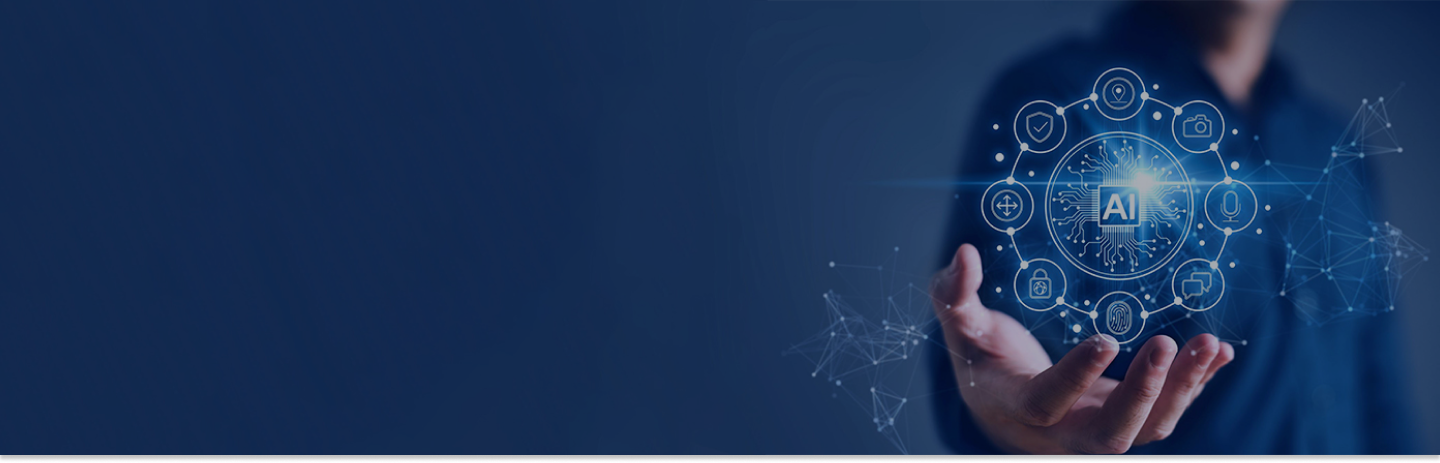
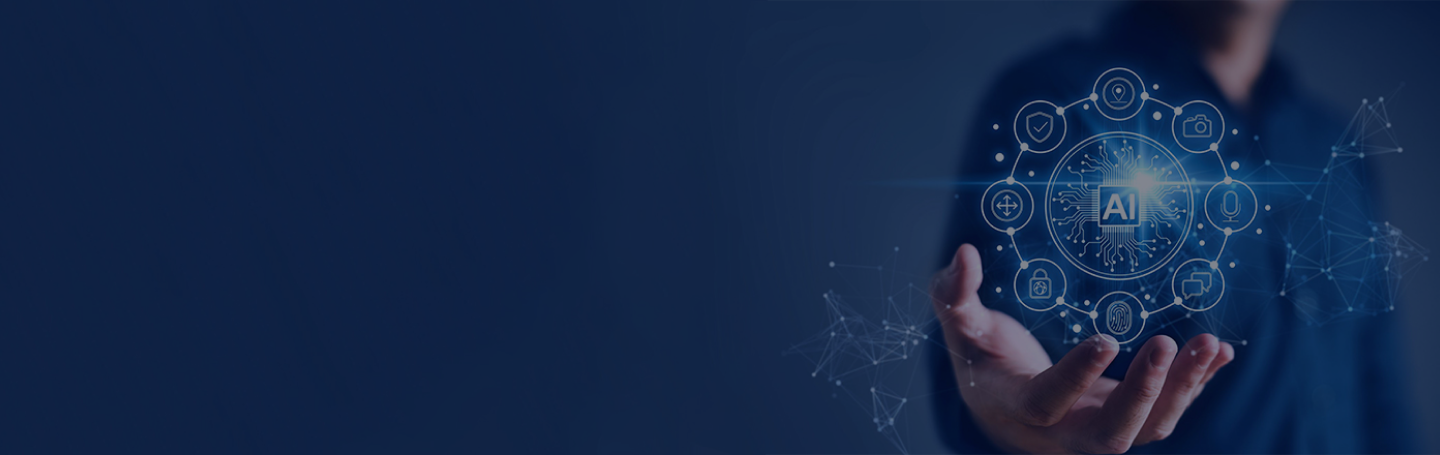
changes made in GenAI

diff --git a/src/assets/components/SubServices/GenAI.jsx b/src/assets/components/SubServices/GenAI.jsx
@@ -7,18 +7,19 @@ import Genimg from "../../images/services-images/GenAI/UseCasesBG.png";
 import { useState } from "react";
 import imagechange from "../../images/services-images/GenAI/Subscribe.png";
 import url1 from "../../images/services-images/GenAI/vert-card_Banking.png";
-import url2 from "../../images/services-images/GenAI/vert-card_Human Resource.png";
-import url3 from "../../images/services-images/GenAI/vert-card_Insurance.png";
+import url2 from "../../images/services-images/GenAI/vert-card_Insurance.png";
+import url3 from "../../images/services-images/GenAI/vert-card_Human Resource.png";
 import url4 from "../../images/services-images/GenAI/vert-card_Manufacturing.png";
 import url5 from "../../images/services-images/GenAI/vert-card_Retail.png";
 import url6 from "../../images/services-images/GenAI/vert-card_IT.png";
-import hoverUrl1 from "../../images/services-images/GenAI/vert-card_b1.png";
-import hoverUrl2 from "../../images/services-images/GenAI/vert-card_b2.png";
+import hoverUrl5 from "../../images/services-images/GenAI/vert-card_b1.png";
+import hoverUrl4 from "../../images/services-images/GenAI/vert-card_b2.png";
 import hoverUrl3 from "../../images/services-images/GenAI/vert-card_b3.png";
-import hoverUrl4 from "../../images/services-images/GenAI/vert-card_b4.png";
-import hoverUrl5 from "../../images/services-images/GenAI/vert-card_b5.png";
-import hoverUrl6 from "../../images/services-images/GenAI/vert-card_b6.png";
+import hoverUrl6 from "../../images/services-images/GenAI/vert-card_b4.png";
+import hoverUrl1 from "../../images/services-images/GenAI/vert-card_b5.png";
+import hoverUrl2 from "../../images/services-images/GenAI/vert-card_b6.png";
 import "../../CSS/GenAI.css";
+import backgroundimage from "../../images/services-images/GenAI/Heading-image.png";
 const GenAI = () => {
     const [selectedId, setId] = useState("");
     const hightlightText = (id) => {
@@ -30,8 +31,8 @@ const GenAI = () => {
     };
 
     const [hoveredIndex, setHoveredIndex] = useState(null);
-    const defaultImages = [url1, url2, url3, url4, url5, url6];
-    const hoverImages = [hoverUrl1, hoverUrl2, hoverUrl3, hoverUrl4, hoverUrl5, hoverUrl6];
+    const defaultImages = [url5,  url4, url6, url1, url3, url2,];
+    const hoverImages = [ hoverUrl5, hoverUrl4, hoverUrl6,hoverUrl1,  hoverUrl3, hoverUrl2,];
 
     const handleMouseEnter = (index) => {
         setHoveredIndex(index);
@@ -43,9 +44,9 @@ const GenAI = () => {
     return (
         <>
             <div
-                className="sub-service-intro position-realtive"
+                className="sub-service-intro-genai position-realtive"
                 style={{
-                    backgroundImage: `url(${AboutUsBG})`,
+                    backgroundImage: `url(${backgroundimage})`,
                     backgroundAttachment: "scroll",
                     backgroundRepeat: "no-repeat",
                     backgroundSize: "cover",
@@ -73,10 +74,11 @@ const GenAI = () => {
                                     service, and 24/7 customer support.
                                 </p>
                                 <button
-                                    type="button"
-                                    className="fw-bold-700 fs-14 px-4 py-3 text-white bg-grey d-table rounded-1 cr-pointer"
+                                    type="button"    
                                 >
+                                    <a href="/contactus" className="fw-bold-700 fs-14 px-4 py-3 text-white bg-grey d-table rounded-1 border-rad cr-pointer">
                                     Talk to an Expert
+                                    </a>
                                 </button>
                             </div>
                             <div className="col-lg-5 col-md-5 col-sm-12"></div>
@@ -93,18 +95,18 @@ const GenAI = () => {
                 </div>
             </div>
             <div className="w-90 mx-auto">
-                <div className="w-85 mx-auto">
+                <div className="w-85 mx-auto top-spacing">
                     <h1 className="text-center mt-5 fw-bold-600">Galvanize your Teams for Business Success with Generative AI</h1>
                     <p className="fs-15 text-center">We guide businesses in developing and deploying digital-trusted Generative AI solutions to mitigate technology
                         risks, lower operational costs, and deliver greater customer experiences. Also, with the right blend of Gen AI +
                         custom-built LLM models, you can accelerate ROI and achieve new levels of success.</p>
                 </div>
                 <div className="d-flex flex-row justify-content-center">
-                    <div className="gradient-green-line"></div>
+                    <div className="gradient-green-line mt-5"></div>
                 </div>
                 <div className="w-85 mx-auto">
-                    <h1 className="text-center mt-5 fw-bold-600">Unlock Revenue Growth. Realize Value. Light up New Opportunities.</h1>
-                    <p className="fs-16 text-center">We guide your business in the safe and responsible deployment of Generative AI and Large Language Models
+                    <h1 className="text-center mt-5 fw-bold-600 ">Unlock Revenue Growth. Realize Value. Light up New Opportunities.</h1>
+                    <p className="fs-16 text-center bottom-spacing">We guide your business in the safe and responsible deployment of Generative AI and Large Language Models
                         (LLMs), adhering to governance, risk, and compliance (GRC) practices. We provide comprehensive Gen AI
                         services and solutions, establishing a scalable tech discipline. Partner with Amnet Digital to develop a
                         comprehensive strategy, including prudent data models, a solid business case, and a concrete Generative AI
@@ -112,7 +114,6 @@ const GenAI = () => {
                 </div>
             </div>
             <div className="">
-             
                 <div
                     className="sub-service-intro position-realtive"
                     style={{
@@ -128,8 +129,8 @@ const GenAI = () => {
                         paddingRight: '20px',
                     }}
                 >
-                       <h1 className="text-center mt-5 fw-bold-600 text-white mb-5">GEN AI USE CASES</h1>
-                    <div className="row">
+                       <h1 className="text-center mt-5  text-white mb-5 gen-font">GEN AI USE CASES</h1>
+                    <div className="row w-90 mx-auto">
                     {defaultImages.map((url, index) => (
                         <div className="col-lg-4">
                                 <img
@@ -149,10 +150,10 @@ const GenAI = () => {
 
             <div className="w-90 mx-auto">
                 <div className="row pt-5">
-                    <h1 className="fs-34 fw-bold-600 text-center pb-5">Why choose Amnet Digital as your Gen AI partner?</h1>
+                    <h1 className="fs-34 fw-bold-600 text-center pb-5 pt-5">Why choose Amnet Digital as your Gen AI partner?</h1>
                     {GenAIData.genfirstdata.map((list) => {
                         return (
-                            <div className="col-lg-4 text-center pt-3">
+                            <div className="col-lg-4 text-center pt-5">
                                 <img src={list.icon} className="w-25 pb-5" />
                                 <h1 className="fs-18 fw-bold-800 pb-4">{list.title}</h1>
                                 <p className="fs-16 ">{list.paragraph}</p>
@@ -271,19 +272,24 @@ const GenAI = () => {
                 <div class="card-overlay"></div>
                 <div className="text-center-img">
                     <div className="w-90 mx-auto pb-8">
-                        <p className="letpara text-left pt-8">Generative AI For Everyone!</p>
-                        <p className="content-text fs-18 text-left w-75">
+                        <div className="row">
+                            <div className="col-lg-9 col-sm-12">
+                        <p className="letpara text-left pt-8 pb-3">Generative AI For Everyone!</p>
+                        <p className="content-text fs-18 text-left pb-3">
                             Achieve business agility, continuity, and credibility by putting Generative AI to
                             work for success. Navigate your business growth in lengths and deliver
                             remarkable customer experiences with Amnet Digital's Generative AI solutions.
                         </p>
+                    
                         <p className="d-flex flex-row justify-content-start pt-4">
-                            <a href="/careers">
+                            <a href="/contactus">
                                 <button className="current-openings fs-16 fw-bold-600">
                                     Talk to our Expert
                                 </button>
                             </a>
                         </p>
+                    </div>
+                    </div>
                     </div>
                 </div>
             </div>

diff --git a/public/styles.css b/public/styles.css
@@ -17,7 +17,7 @@
 
 .gradient-green-line{
     height: 3px;
-    background-image: linear-gradient(to right, rgb(37, 202, 161), #7c1bd6);
+    background: linear-gradient(90deg, #1DAD8F 36.61%, rgba(0, 0, 0, 0.79) 84.07%);
     width: 300px;
     border-radius: 4px;
 }
@@ -339,6 +339,24 @@ body {
   border-style: none;
   height: 150px;
 }
+
+.top-spacing{
+  margin-top:60px;
+}
+
+.bottom-spacing{
+  margin-bottom:60px;
+}
+
+.border-rad{
+  border-radius: 4px!important;
+}
+
+.gen-font{
+  font-size:35px;
+  font-weight:600;
+}
+
 
 .industry-section .dot-icon {
   position: absolute;
@@ -3347,6 +3365,16 @@ label {
   background: #f4f4f4;
   opacity: 1;
 }
+
+.sub-service-intro-genai{
+  position: relative;
+  width: 100%;
+  height: 600px;
+  background: #f4f4f4;
+  opacity: 1;
+}
+
+
 
 .text-center-img-CTA {
   position: absolute;

diff --git a/src/assets/Data/SubService-Data/GenAIData.js b/src/assets/Data/SubService-Data/GenAIData.js
@@ -96,14 +96,14 @@ genseconddata:[
 ],
 CaseStudiesSectionData: [
     {
-        id : "propensity-modelling",
+        id : "virtual-assistant",
         caseStudiesTitle : "Virtual Assistant",
         caseStudiesDesc : "Virtual shopping assistant to help shoppers find the best products in the easiest way across multiple domains like Retail, eCommerce and Healthcare.",   
         caseStudiesIMG : propensityIMG,
     },
 
     {
-        id : "virtual-assistant",
+        id : "propensity-modelling ",
         caseStudiesTitle : "Policy assistant",
         caseStudiesDesc : "Introduced a Gen AI-powered chat-bot to answer employee queries about internal policy documents, enhance employee understanding of company policies, and improve workplace efficiency & compliance.",
         caseStudiesIMG : virtualIMG,

diff --git a/src/assets/components/Navbar.jsx b/src/assets/components/Navbar.jsx
@@ -379,13 +379,6 @@ function Navbar(props) {
                                 Visualizations
                               </a>
                             </p>
-                            <p className="sub-service-links">
-                              <a
-                                href={`/services/${`aiml`}/${`anomaly-detection`}`}
-                              >
-                                Anomaly Detection
-                              </a>
-                            </p>
                             <p className="sub-service-links dropdown-view-all-link mb-0">
                               <span
                                 onClick={(e) => serviceTo(e, `/services/aiml`)}

diff --git a/src/assets/components/Internalpage.jsx b/src/assets/components/Internalpage.jsx
@@ -1,0 +1,19 @@
+import banner from "../images/Certificate-Images/Award-Background-Image.png";
+import facebook from "../images/Certificate-Images/Facebook.png";
+import instagram from "../images/Certificate-Images/LinkedIn.png";
+import linkedin from "../images/Certificate-Images/Instagram.png";
+import twitter from "../images/Certificate-Images/Twitter.png";
+import logo from "../images/Certificate-Images/Facebook.png";
+const Internalpage = () => {
+    <div>
+        <img src={banner} />
+        <img src={facebook } />
+        <img src={instagram} />
+        <img src={linkedin} />
+        <img src={twitter} />
+        <img src={logo} />
+    </div>
+
+}
+
+export default Internalpage;
